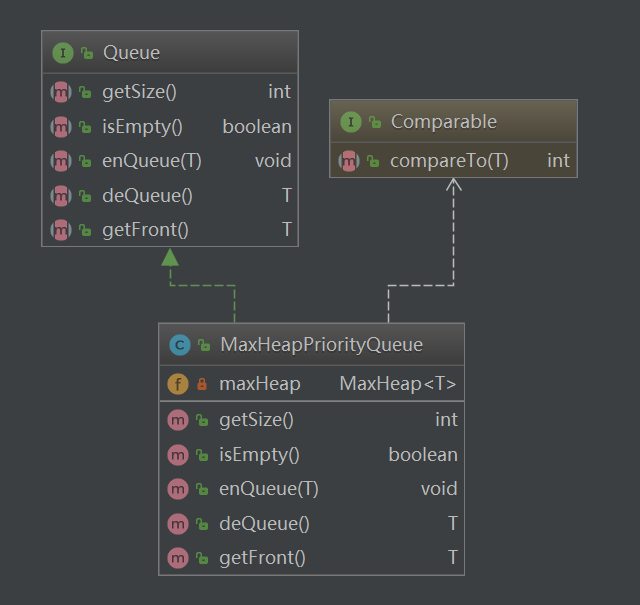
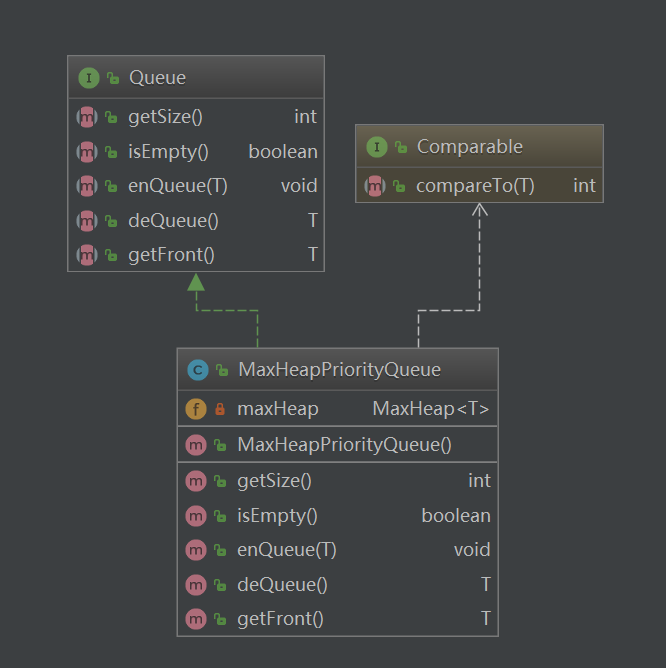
Queue

diff --git a/queue/priority-queue/MaxHeapPriorityQueue.java b/queue/priority-queue/MaxHeapPriorityQueue.java
@@ -6,6 +6,10 @@
 public class MaxHeapPriorityQueue<T extends Comparable<T>> implements Queue<T> {
 
     private MaxHeap<T> maxHeap;
+	
+	public MaxHeapPriorityQueue() {
+		maxHeap = new MaxHeap<>();
+	}
 
     @Override
     public int getSize() {
